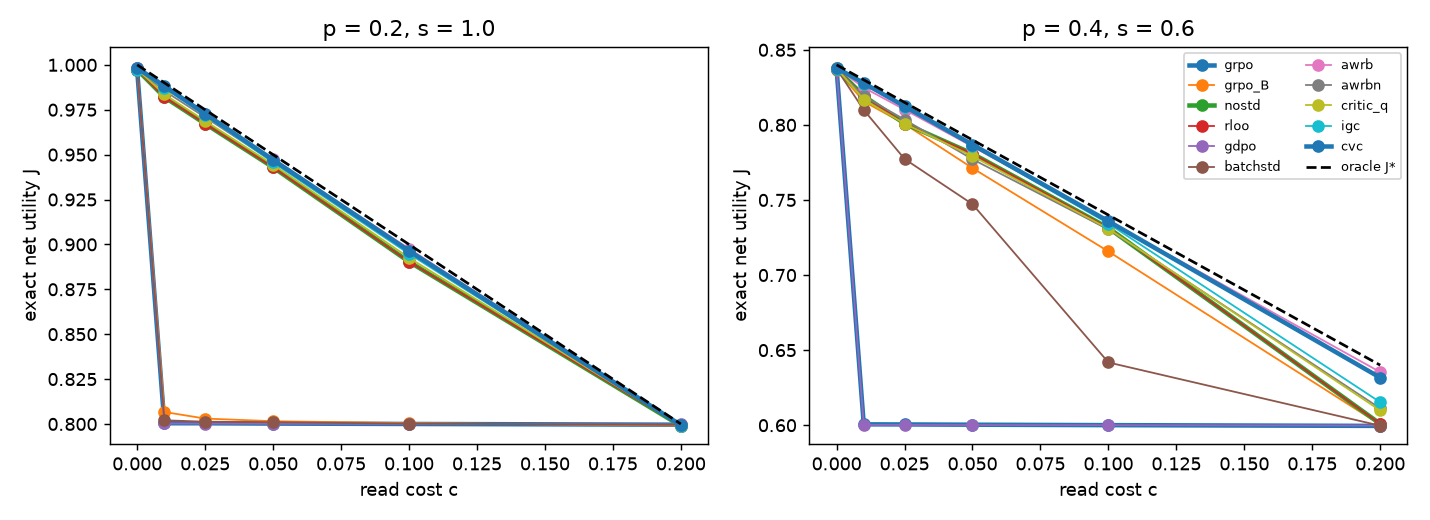
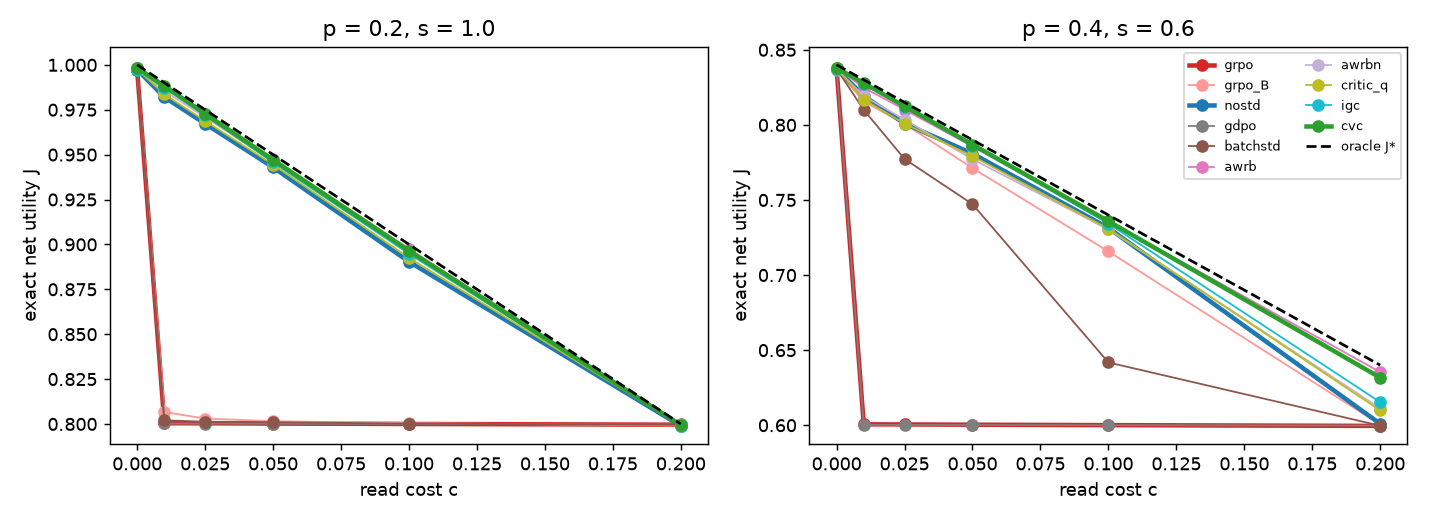
Selective verification results; candidate gates and ranking (igc the only survivor, testbed only)

diff --git a/docs/research/algorithm_discovery_v2/SELECTIVE_VERIFICATION_RESULTS.md b/docs/research/algorithm_discovery_v2/SELECTIVE_VERIFICATION_RESULTS.md
@@ -1,0 +1,101 @@
+# Selective verification results
+
+**Testbed.** TB2 rich workflows, five seeds. These are development results registered in V2TB_PROTOCOL; the
+data are `results/ad2/tabular/TB2_summary.json` and `TB2_stats.json`.
+- **Op types:**
+  - order: p 0.08, repair 0.9, visible timeouts with duplicate risk;
+  - receive: p 0.15;
+  - pay: p 0.25, repair 0.5, false alarms 5%;
+  - post: never faulted.
+- **Workflows:** three, trained jointly.
+- **Settings:** single and multi fault × c {0.02, 0.05, 0.1} × L_f {0, 1}, with duplicate loss D = 0.5.
+
+**Metrics.** Net utility is U − cost − failure loss − duplicate loss. Regret is J* − J, computed exactly.
+
+## 1. All metrics (means over settings, workflows and seeds)
+
+| Variant | Episodes | Regret | Never-faulted-op verify | Risky-op verify | Duplicate loss | Precision | Recall | Uninformative reads | Recovery given silent fault | Cost per completed workflow |
+|---|---|---|---|---|---|---|---|---|---|---|
+| **igc ×8** | 51,200 | **0.0043** | **0.001** | 0.880 | 0.012 | 0.164 | 0.889 | **0.040** | 0.601 | 0.103 |
+| awrbn ×8 | 51,200 | 0.0049 | 0.012 | 0.881 | 0.012 | 0.162 | 0.889 | 0.051 | 0.600 | 0.104 |
+| rloo ×8 | 51,200 | 0.0051 | 0.010 | 0.879 | 0.012 | 0.164 | 0.887 | 0.051 | 0.600 | 0.104 |
+| nostd ×8 | 51,200 | 0.0052 | 0.021 | 0.879 | 0.012 | 0.164 | 0.887 | 0.054 | 0.599 | 0.104 |
+| igc ×4 | 25,600 | 0.0053 | 0.002 | 0.865 | 0.012 | 0.169 | 0.871 | 0.039 | 0.591 | 0.100 |
+| nostd ×4 | 25,600 | 0.0080 | 0.039 | 0.850 | 0.011 | 0.160 | 0.855 | 0.068 | 0.580 | 0.099 |
+| cvc k4 | 92,003 | 0.0093 | 0.020 | 0.845 | 0.012 | 0.158 | 0.847 | 0.054 | 0.575 | 0.098 |
+| cvc k1 | 27,794 | 0.0103 | 0.020 | 0.827 | 0.011 | 0.161 | 0.831 | 0.052 | 0.563 | 0.094 |
+| awrb ×1 (group std) | 6,400 | 0.0105 | 0.016 | 0.940 | 0.013 | 0.165 | 0.959 | 0.062 | 0.644 | 0.120 |
+| critic_q ×8 | 51,200 | 0.0105 | 0.039 | 0.883 | **0.018** | 0.160 | 0.892 | 0.058 | 0.602 | 0.103 |
+| fork_bel k1 | 32,645 | 0.0142 | 0.022 | 0.817 | 0.012 | 0.159 | 0.822 | 0.099 | 0.555 | 0.096 |
+| **igc ×1** | 6,400 | **0.0155** | **0.020** | 0.800 | 0.012 | 0.164 | 0.812 | **0.052** | 0.545 | 0.093 |
+| fork_act k1 | 32,635 | 0.0167 | 0.023 | 0.798 | 0.011 | 0.163 | 0.806 | 0.095 | 0.540 | 0.095 |
+| awrbn ×1 | 6,400 | 0.0249 | 0.210 | 0.796 | 0.012 | 0.152 | 0.804 | 0.163 | 0.540 | 0.101 |
+| **nostd ×1** (Dr. GRPO) | 6,400 | **0.0296** | **0.197** | 0.754 | 0.011 | 0.152 | 0.770 | **0.163** | 0.520 | 0.097 |
+| critic_q ×1 | 6,400 | 0.0309 | 0.188 | 0.777 | 0.018 | 0.151 | 0.785 | 0.160 | 0.530 | 0.094 |
+| critic_v ×1 | 6,400 | 0.0441 | 0.261 | 0.705 | 0.014 | 0.147 | 0.721 | 0.208 | 0.481 | 0.093 |
+| lagr ×1 | 6,400 | 0.0752 | 0.163 | 0.566 | 0.011 | 0.158 | 0.588 | 0.147 | 0.393 | 0.068 |
+| batchstd ×1 | 6,400 | 0.1727 | 0.006 | 0.033 | 0.002 | 0.144 | 0.035 | 0.117 | 0.023 | 0.010 |
+| fork_bel_std k4 | 111,267 | 0.1783 | 0.002 | 0.003 | 0.000 | 0.102 | 0.002 | 0.175 | 0.001 | 0.008 |
+| **grpo ×1** | 6,400 | **0.1834** | 0.001 | **0.002** | 0.003 | 0.098 | **0.002** | 0.178 | **0.001** | 0.006 |
+| gdpo ×1 | 6,400 | 0.2057 | 0.001 | 0.001 | 0.018 | 0.078 | 0.001 | 0.280 | 0.001 | 0.000 |
+
+**How to read the low-cost rows.** A low "cost per completed workflow" at low recall (grpo, gdpo, batchstd) is not
+efficiency; it is non-verification. Their net utility is the worst (regret 0.17–0.21).
+
+**Precision** is about 0.16 for every verifying policy. That is close to the base fault rate of the risky ops: the
+optimal policy verifies every risky op, so precision equals the prior. Precision is not a selectivity measure here.
+The never-faulted-op rate and the uninformative-read fraction are.
+
+## 2. Does the policy follow the value of information?
+
+**1. The standard estimator does not verify at all.** GRPO verifies risky operations at 0.002 and recovers 0.1% of
+silent faults; batch std, GDPO and the fork-group std do the same. This is the vote rule
+(GRPO_FAILURE_DERIVATION §3): every rich-workflow op has p·q < 1/2.
+
+**2. Correct-sign estimators verify risky ops, but at 1× budget they are not selective.** Dr. GRPO verifies the
+never-faulted op 19.7% of the time, and 16% of its reads carry no information. That is the testbed analogue of
+first-stage F3, where the LLM verified the journal entry as often as payments.
+
+**3. Exact local credit for uninformative reads (igc) makes the policy selective.**
+
+| Metric (1× budget) | nostd | igc |
+|---|---|---|
+| Never-faulted-op verify | 0.197 | **0.020** (10× less) |
+| Uninformative reads | 0.163 | 0.052 |
+| Regret | 0.0296 | **0.0155** |
+
+Gates T1–T3 pass at 1× and at 4×:
+- **1×:** better in 5/5 seeds; paired difference +0.0141, CI [+0.0117, +0.0167], d_z 1.45, Holm p < 1e-4;
+- **4×:** 0.0053 vs 0.0080, 5/5 seeds, Holm p < 1e-4.
+
+At 8× the advantage shrinks to 0.0043 vs 0.0051 (16%, below the 20% gate; Holm p 0.18–0.29). Every correct-sign
+estimator eventually reaches the same selective optimum. igc's benefit is **sample efficiency of selectivity**, not
+a different end point.
+
+**4. Counterfactual forks do not pay for themselves.** At matched episodes, cvc, fork_bel and fork_act are all worse
+than rloo/nostd ×8, by −0.004 to −0.012 regret in 5/5 seeds. Their selectivity matches igc's, because they share
+its exact credit on uninformative reads (cvc) or estimate it (forks). Their informative-decision forks add little
+the sequence signal does not already give.
+
+**5. Duplicates.** All correct-sign estimators have duplicate loss 0.011–0.013, except the learned Q-critic
+(0.018), which retries blindly after timeouts more often. No candidate regresses duplicate prevention (T3).
+
+**6. Recovery** given a silent fault is about 0.60 at convergence for every correct-sign estimator, against
+GRPO's 0.001. The recovery skill itself is fixed by the environment's repair rates. The estimators differ only in
+whether they look.
+
+## 3. What this does and does not show
+
+**Shown, in a controlled testbed with an exact optimum:**
+- standard GRPO verifies nothing whenever p·q < 1/2;
+- Dr. GRPO verifies but is unselective early;
+- information-gated exact local credit gives selective verification about 4× more sample-efficiently (igc ×1 is
+  close to nostd ×4);
+- forked counterfactual credit is not worth its cost.
+
+**Not shown:**
+- **Any LLM result for igc.** Its LLM implementation is first-stage D3 (`nostd_ema_irc`, tasks 1216 and 1217). It
+  had not run at the time of writing, because the main session's tasks occupy the lanes. It also uses the EMA
+  scale, which collapsed in 2 of 4 D2 runs.
+- **Novelty of igc as an algorithm.** It is per-decision credit with an exact local value. Its only non-standard
+  ingredient is the support-based uninformativeness test (LITERATURE_AND_NOVELTY_AUDIT §6).

diff --git a/docs/research/algorithm_discovery_v2/ALGORITHM_CANDIDATES.md b/docs/research/algorithm_discovery_v2/ALGORITHM_CANDIDATES.md
@@ -144,4 +144,33 @@ GRPO_FAILURE_DERIVATION.md. b(z | h) is the posterior over hidden fault plans gi
 
 ## Results of the registered candidate gates (TB2)
 
-Filled in from `results/ad2/tabular/TB2_summary.json` only.
+Filled in from `results/ad2/tabular/TB2_summary.json`. The SFB is the strongest fair non-privileged baseline at a
+matched episode budget.
+
+| Variant | SFB (matched) | Regret, candidate vs SFB | Seed differences (SFB − candidate) | T1 | T2 | T3 | Pass |
+|---|---|---|---|---|---|---|---|
+| **igc ×1** | rloo ×1 | 0.0155 vs 0.0296 | +.015 +.011 +.018 +.015 +.012 | ✓ | ✓ | ✓ | **yes** |
+| **igc ×4** | nostd ×4 | 0.0053 vs 0.0080 | +.0025 +.0028 +.0036 +.0028 +.0016 | ✓ | ✓ | ✓ | **yes** |
+| igc ×8 | rloo ×8 | 0.0043 vs 0.0051 | +.0006 +.0011 +.0012 +.0010 −.0002 | ✗ (16% < 20%; 4/5 seeds) | ✓ | ✓ | no |
+| cvc k1 | rloo ×8 | 0.0103 vs 0.0051 | all negative | ✗ | ✓ | ✓ | no |
+| cvc k4 | rloo ×8 (under-budget) | 0.0093 vs 0.0051 | all negative | ✗ | ✓ | ✓ | no |
+| fork_bel k1 / k4 | rloo ×8 | 0.0142 / 0.0129 vs 0.0051 | all negative | ✗ | ✓ | ✓ | no |
+| fork_act k1 / k4 | rloo ×8 | 0.0167 / 0.0174 vs 0.0051 | all negative | ✗ | ✓ | ✓ | no |
+| ctxema ×1 / ×4 / ×8 | rloo / nostd / rloo | worse at every budget | mostly negative | ✗ | ✓ | ✓ | no |
+| awrbn ×1 / ×4 / ×8 | rloo / nostd / rloo | 0.0249 vs 0.0296; 0.0075 vs 0.0080; 0.0049 vs 0.0051 | mixed | ✗ | ✓ | ✓ | no |
+
+## Ranking (novelty, feasibility, justification, improvement, falsifiability)
+
+| Rank | Candidate | Novelty | Feasibility in LLM | Theory | Measured improvement | Falsified? | Decision |
+|---|---|---|---|---|---|---|---|
+| 1 | **igc** (information-gated exact local credit) | weak–moderate | high: replay already exists; LLM version = first-stage D3 | exact: an uninformative read's Q-difference is exactly −c | passes T1–T3 at 1× and 4×; selectivity 10× better at 1× | not falsified in the testbed; the LLM test (D3) is pending | **survives as the only candidate**; LLM evidence required |
+| 2 | cvc | weak–moderate | medium: forks need env snapshots and extra generation | unbiased belief Q | best regret per *update*; fails at matched budget | **falsified** as cost-effective (TB2, TB3) | rejected |
+| 3 | fork_bel / fork_act | weak | medium | unbiased | fails at matched budget | **falsified** | rejected |
+| 4 | awrbn | moderate (first stage) | done | unbiased RB | ≈ nostd; catastrophic under p/4 | **falsified** as superior | rejected |
+| 5 | ctxema | weak | high | sign-preserving | worse than nostd | **falsified** | rejected |
+| 6 | lagr / lagr_grpo | none | high | cancellation under std | worse | **falsified** | rejected |
+
+**Does any surviving candidate change a meaningful part of the optimisation procedure?** Yes: igc changes the
+credit assigned to verification decisions (the advantage estimator), not the reward. It is still only a development
+result in a tabular testbed. It needs privileged training-time information: the support of the hidden-fault prior
+and a replayable simulator.
